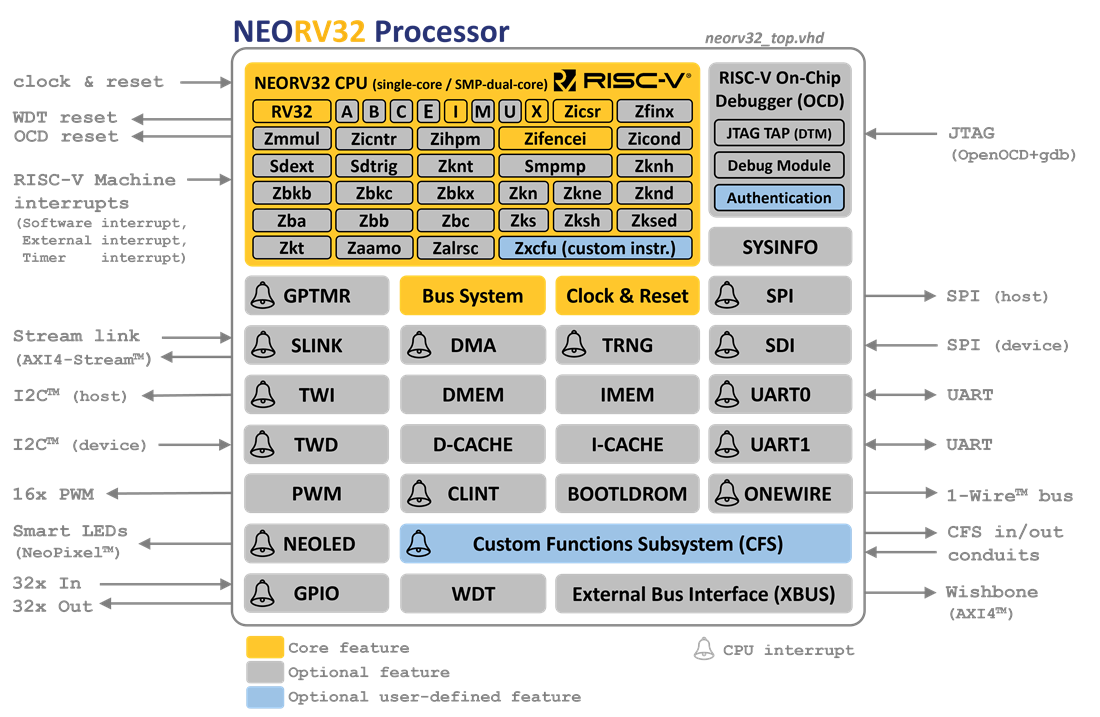
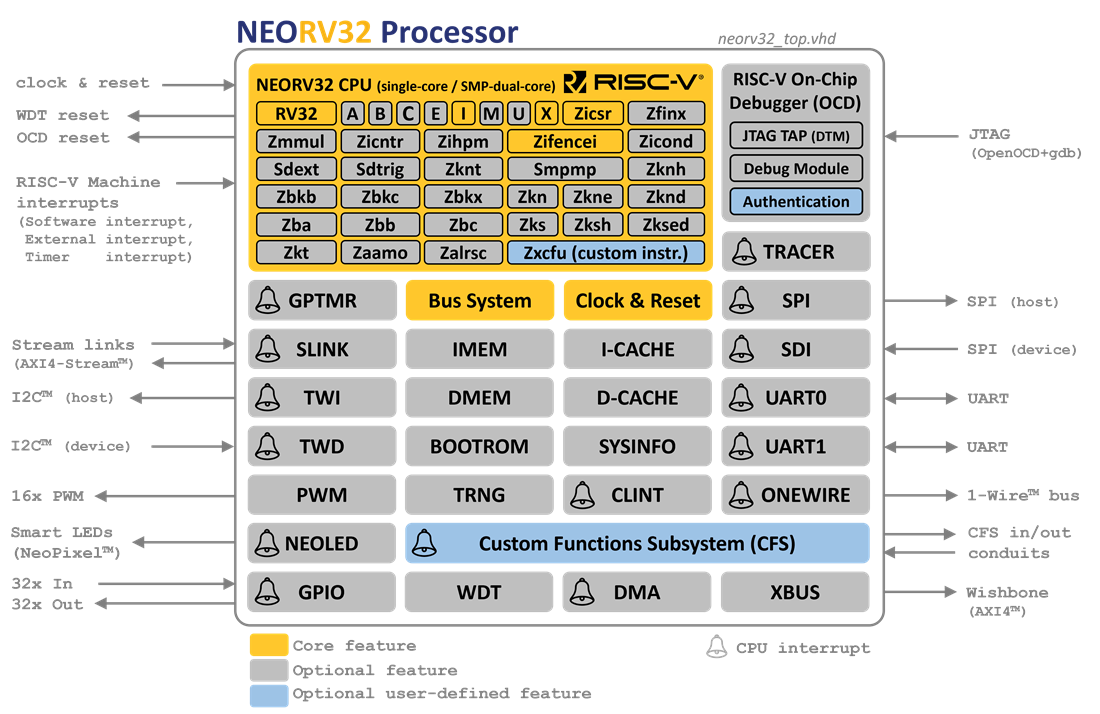
[docs] add TRACER

Changed region(s): [[0.0, 0.0308, 0.9891, 1.0]]

diff --git a/README.md b/README.md
@@ -146,13 +146,12 @@ allows booting application code via UART, TWI or from external SPI flash
 
 **Input / Output**
 
-* standard serial interfaces
-  * [UART](https://stnolting.github.io/neorv32/#_primary_universal_asynchronous_receiver_and_transmitter_uart0) (2x)
-  * [SPI](https://stnolting.github.io/neorv32/#_serial_peripheral_interface_controller_spi) (SPI host)
-  * [SDI](https://stnolting.github.io/neorv32/#_serial_data_interface_controller_sdi) (SPI device)
-  * [TWI](https://stnolting.github.io/neorv32/#_two_wire_serial_interface_controller_twi) (I²C host)
-  * [TWD](https://stnolting.github.io/neorv32/#_two_wire_serial_device_controller_twd) (I²C device)
-  * [ONEWIRE/1-Wire](https://stnolting.github.io/neorv32/#_one_wire_serial_interface_controller_onewire) (host)
+* standard serial interfaces: [UART](https://stnolting.github.io/neorv32/#_primary_universal_asynchronous_receiver_and_transmitter_uart0) (2x),
+[SPI](https://stnolting.github.io/neorv32/#_serial_peripheral_interface_controller_spi) (SPI host),
+[SDI](https://stnolting.github.io/neorv32/#_serial_data_interface_controller_sdi) (SPI device),
+[TWI](https://stnolting.github.io/neorv32/#_two_wire_serial_interface_controller_twi) (I²C host),
+[TWD](https://stnolting.github.io/neorv32/#_two_wire_serial_device_controller_twd) (I²C device),
+[ONEWIRE](https://stnolting.github.io/neorv32/#_one_wire_serial_interface_controller_onewire) (1-wire host)
 * interrupt-capable general purpose IOs ([GPIO](https://stnolting.github.io/neorv32/#_general_purpose_input_and_output_port_gpio)) and
 [PWM](https://stnolting.github.io/neorv32/#_pulse_width_modulation_controller_pwm)
 * smart LED interface ([NEOLED](https://stnolting.github.io/neorv32/#_smart_led_interface_neoled)) to directly control NeoPixel(TM) LEDs
@@ -180,7 +179,8 @@ data transfers and conversions
 * compatible to the "Minimal RISC-V Debug Specification Version 1.0"
 * compatible with **OpenOCD**, **GDB** and **Segger Embedded Studio**
 * RISC-V [trigger module](https://stnolting.github.io/neorv32/#_trigger_module) for hardware-assisted break- and watchpoints
-* optional authentication module to implement custom security mechanisms
+* optional JTAG authentication module to implement custom security mechanisms
+* execution trace buffer ([TRACER](https://stnolting.github.io/neorv32/#_execution_trace_buffer_tracer))
 
 
 ## FPGA Implementation Results
